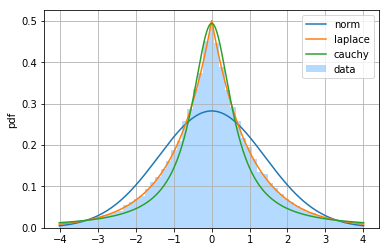
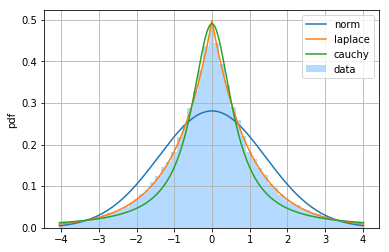
Updated example plots

diff --git a/README.md b/README.md
@@ -11,9 +11,9 @@ longtail.plot(y)
 ```
 ```
 Estimating distributions parameters...
-norm (-0.002947709369093035, 1.4120986061330212)
-laplace (-0.0015149668735257367, 0.9962681216397508)
-cauchy (-0.0016636861308046977, 0.6439073171681272)
+norm (0.0018876631529621596, 1.4211949719613757)
+laplace (0.0017959270327248976, 1.004473511770026)
+cauchy (0.0008371221028761951, 0.6495115549176855)
 ```
 
 ![](examples/hist_laplace.png?raw=true)  
@@ -26,9 +26,9 @@ longtail.plot(x_)
 ```
 ```
 Estimating distributions parameters...
-norm (-0.0003123820476865189, 0.9972298229824003)
-laplace (-0.006536489035160511, 0.7924577184080439)
-cauchy (-0.0040960015181256, 0.6037980352309185)
+norm (5.4850160001935534e-05, 0.9999632908186453)
+laplace (5.727594101276392e-05, 0.7978789360688088)
+cauchy (-1.422402203800512e-06, 0.6119807936005598)
 ```
 
 ![](examples/hist_normal.png?raw=true)  
